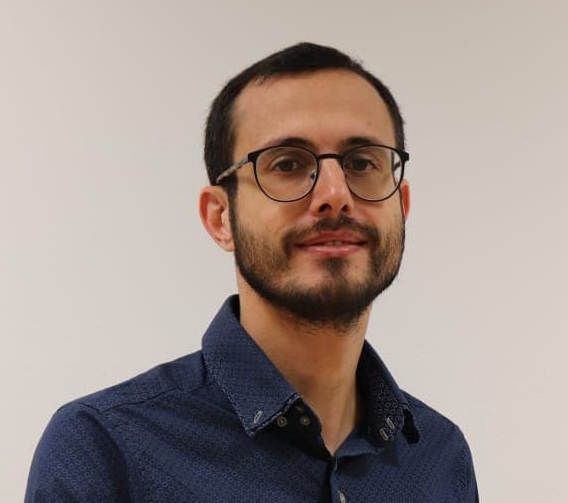
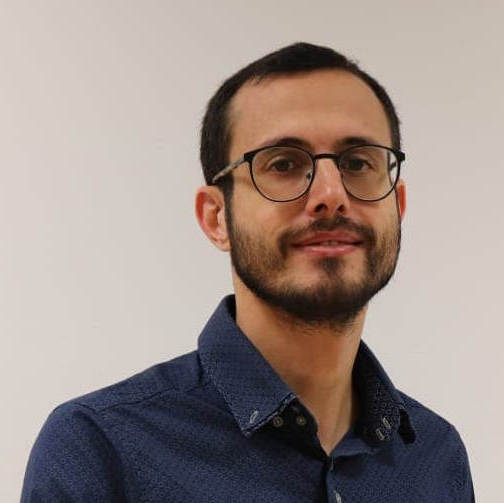
adding squared image

diff --git a/styles/style.css b/styles/style.css
@@ -30,18 +30,20 @@ h2.left-column {
     text-align: justify;
     
 }
-
+#Photo {
+    padding: 1.5em 1.5em 1.5em 1.5em;
+}
 .images {
     border-radius: 50%;
     height: 200px;
     max-width: 100%;
     margin-left: auto;
     margin-right: auto;
-    margin-top: 1,5em;
-    display: block;
+   display: block;
 }
 .fas{
     font-size: 2em;
+
    
 }
 /*adding media queries for responsive */
